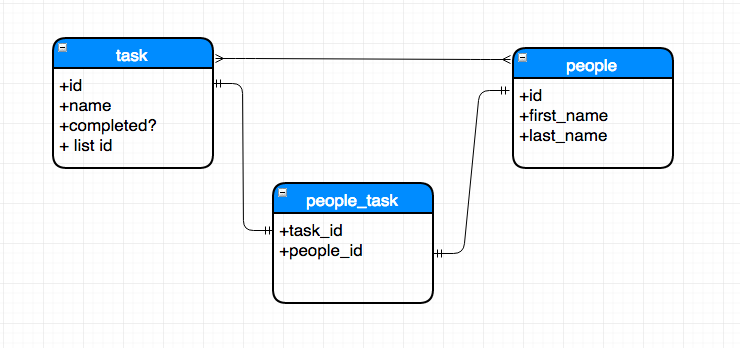
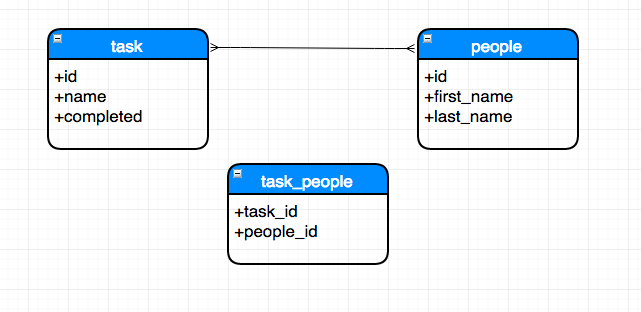
created database structure, updated readme ERD

Changed region(s): [[0.0624, 0.0865, 0.936, 0.8942], [0.5616, 0.6923, 0.624, 0.75], [0.5928, 0.8077, 0.624, 0.8365]]

diff --git a/server/app.js b/server/app.js
@@ -2,8 +2,10 @@ var port = process.env.PORT || 3000;
 var express = require( 'express' );
 var app = express();
 var path = require( 'path' );
-var pg = require( 'pg' );
 var bodyParser = require( 'body-parser' );
+var pg = require( 'pg' );
+
+var connStr = 'postgres://localhost:5432/Weekend4_ToDoList';
 
 //middleware
 app.use(express.static('public'));
